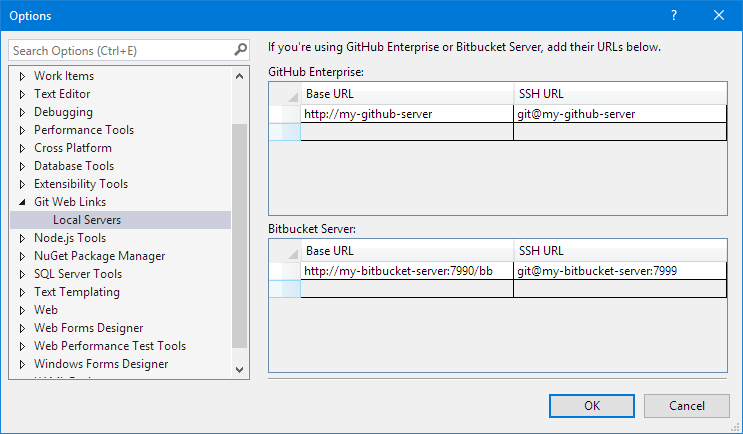
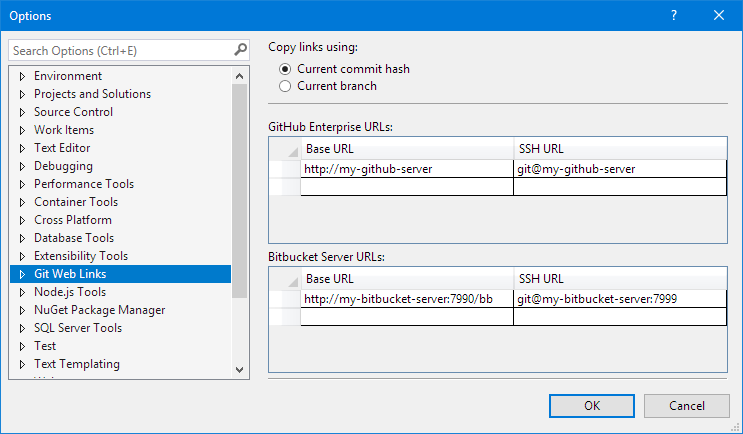
Added an option for using the current commit hash or branch name.

diff --git a/source/GitWebLinks/Options/OptionsPageControl.xaml b/source/GitWebLinks/Options/OptionsPageControl.xaml
@@ -1,4 +1,4 @@
-<UserControl 
+<UserControl 
     x:Class="OptionsPageControl"
     xmlns="http://schemas.microsoft.com/winfx/2006/xaml/presentation"
     xmlns:x="http://schemas.microsoft.com/winfx/2006/xaml"
@@ -12,7 +12,7 @@
     <Grid>
         <Grid.RowDefinitions>
             <RowDefinition Height="Auto"/>
-            <RowDefinition Height="*"/>
+            <RowDefinition Height="Auto"/>
             <RowDefinition Height="*"/>
         </Grid.RowDefinitions>
 
@@ -29,81 +29,101 @@
             </Style>
         </Grid.Resources>
 
-        <TextBlock 
+        <StackPanel
             Grid.Row="0"
-            TextWrapping="Wrap"
-            Margin="0,0,0,5"
+            Orientation="Vertical"
+            HorizontalAlignment="Left"
             >
-            
-            If you're using GitHub Enterprise or Bitbucket Server, add their URLs below.
-        </TextBlock>
 
-        <Grid Grid.Row="1">
-            <Grid.RowDefinitions>
-                <RowDefinition Height="Auto"/>
-                <RowDefinition Height="*"/>
-            </Grid.RowDefinitions>
+            <StackPanel.Resources>
+                <Style TargetType="RadioButton" BasedOn="{StaticResource {x:Type RadioButton}}">
+                    <Setter Property="Margin" Value="10,3,0,0"/>
+                </Style>
+            </StackPanel.Resources>
 
-            <TextBlock
-                Grid.Row="0"
-                Margin="0,5,0,2"
-                Text="GitHub Enterprise:"
-                />
+            <TextBlock Text="Copy links using:" Margin="0,0,0,5"/>
+            <RadioButton Content="Current commit hash" IsChecked="{Binding UseCurrentHash}" />
+            <RadioButton Content="Current branch" IsChecked="{Binding UseCurrentBranch}" />
+        </StackPanel>
 
-            <DataGrid
-                x:Name="GitHubEnterpriseDataGrid"
-                Grid.Row="1"
-                ItemsSource="{Binding GitHubEnterpriseUrls}"
-                >
-
-                <DataGrid.Columns>
-                    <DataGridTextColumn 
-                        Width="*"
-                        Header="Base URL"
-                        Binding="{Binding BaseUrl}"
-                        />
-
-                    <DataGridTextColumn 
-                        Width="*"
-                        Header="SSH URL"
-                        Binding="{Binding SshUrl}"
-                        />
-                </DataGrid.Columns>
-            </DataGrid>
-        </Grid>
+        <Separator
+            Grid.Row="1"
+            Margin="0,10"
+            />
 
         <Grid Grid.Row="2">
             <Grid.RowDefinitions>
-                <RowDefinition Height="Auto"/>
+                <RowDefinition Height="*"/>
                 <RowDefinition Height="*"/>
             </Grid.RowDefinitions>
 
-            <TextBlock
-                Grid.Row="0"
-                Margin="0,5,0,2"
-                Text="Bitbucket Server:"
-                />
+            <Grid Grid.Row="0">
+                <Grid.RowDefinitions>
+                    <RowDefinition Height="Auto"/>
+                    <RowDefinition Height="*"/>
+                </Grid.RowDefinitions>
 
-            <DataGrid
-                x:Name="BitbucketServerDataGrid"
-                Grid.Row="1"
-                ItemsSource="{Binding BitbucketServerUrls}"
-                >
+                <TextBlock
+                    Grid.Row="0"
+                    Margin="0,5,0,2"
+                    Text="GitHub Enterprise URLs:"
+                    />
 
-                <DataGrid.Columns>
-                    <DataGridTextColumn 
-                        Width="*"
-                        Header="Base URL"
-                        Binding="{Binding BaseUrl}"
-                        />
+                <DataGrid
+                    x:Name="GitHubEnterpriseDataGrid"
+                    Grid.Row="1"
+                    ItemsSource="{Binding GitHubEnterpriseUrls}"
+                    >
 
-                    <DataGridTextColumn 
-                        Width="*"
-                        Header="SSH URL"
-                        Binding="{Binding SshUrl}"
-                        />
-                </DataGrid.Columns>
-            </DataGrid>
+                    <DataGrid.Columns>
+                        <DataGridTextColumn 
+                            Width="*"
+                            Header="Base URL"
+                            Binding="{Binding BaseUrl}"
+                            />
+
+                        <DataGridTextColumn 
+                            Width="*"
+                            Header="SSH URL"
+                            Binding="{Binding SshUrl}"
+                            />
+                    </DataGrid.Columns>
+                </DataGrid>
+            </Grid>
+
+            <Grid Grid.Row="1">
+                <Grid.RowDefinitions>
+                    <RowDefinition Height="Auto"/>
+                    <RowDefinition Height="*"/>
+                </Grid.RowDefinitions>
+
+                <TextBlock
+                    Grid.Row="0"
+                    Margin="0,5,0,2"
+                    Text="Bitbucket Server URLs:"
+                    />
+
+                <DataGrid
+                    x:Name="BitbucketServerDataGrid"
+                    Grid.Row="1"
+                    ItemsSource="{Binding BitbucketServerUrls}"
+                    >
+
+                    <DataGrid.Columns>
+                        <DataGridTextColumn 
+                            Width="*"
+                            Header="Base URL"
+                            Binding="{Binding BaseUrl}"
+                            />
+
+                        <DataGridTextColumn 
+                            Width="*"
+                            Header="SSH URL"
+                            Binding="{Binding SshUrl}"
+                            />
+                    </DataGrid.Columns>
+                </DataGrid>
+            </Grid>
         </Grid>
     </Grid>
 </UserControl>

diff --git a/readme.md b/readme.md
@@ -33,6 +33,10 @@ You can also copy a link to a file or folder from Solution Explorer.
 
 ![Copy Link to Solution Explorer Item](media/copy-solution-explorer.png)
 
+## Link Format
+
+Links can be created using the current commit hash, or the current branch name. The current commit hash is the default format. This can be changed by going to _Tools -> Options -> Git Web Links_.
+
 ## GitHub Enterprise and Bitbucket Server
 
 If you use GitHub Enterprise or Bitbucket Server, you will need to tell this extension the URLs of those servers. To do that, go to _Tools -> Options -> Git Web Links_.
